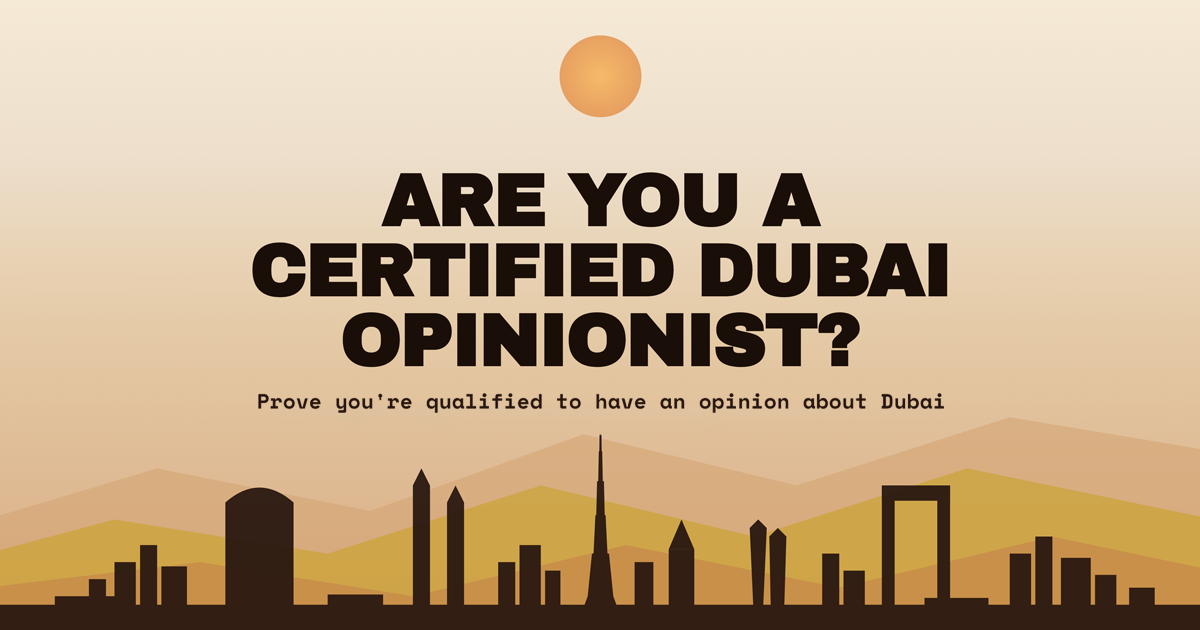
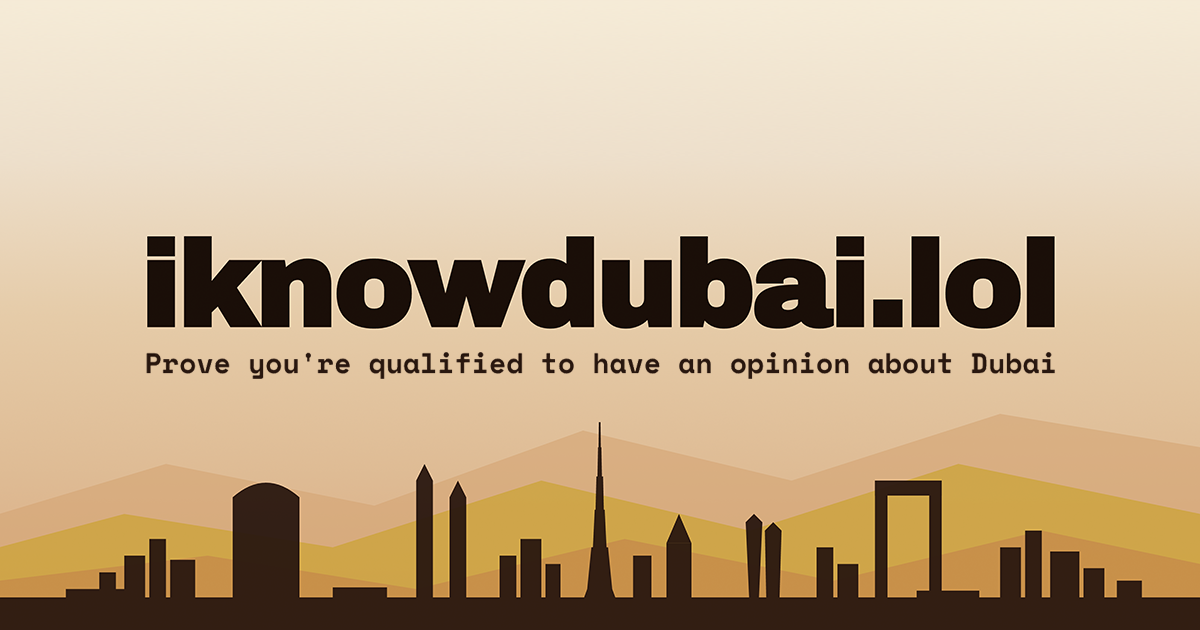
Mobile-first redesign: hero cleanup, quiz/results spacing optimization
- Remove sun decoration, add gold accent bar on hero
- Add semi-transparent background pill behind timer text
- Tighten hero vertical spacing on mobile
- Compact quiz options and question card for mobile
- Optimize results certificate layout to fit iPhone viewport
- All 3 buttons visible without scrolling on iPhone 16 Pro
- Restore balanced spacing (~70% of original margins)

diff --git a/app/page.jsx b/app/page.jsx
@@ -264,6 +264,12 @@ export default function DubaiQuiz() {
             )`,
           }}
         >
+          {/* Gold accent bar */}
+          <div
+            className="absolute top-0 left-0 w-full"
+            style={{ height: '6px', backgroundColor: '#D4AF37' }}
+          />
+
           {/* Logo */}
           <div className="absolute top-6 left-0 w-full flex justify-center" style={{ zIndex: 20 }}>
             <Logo />
@@ -357,25 +363,10 @@ export default function DubaiQuiz() {
             </g>
           </svg>
 
-          {/* Geometric Sun - high up, centered */}
-          <div
-            className="absolute"
-            style={{
-              top: '15%',
-              left: '50%',
-              transform: 'translateX(-50%)',
-              width: 'clamp(100px, 15vw, 160px)',
-              height: 'clamp(100px, 15vw, 160px)',
-              borderRadius: '50%',
-              background: 'radial-gradient(circle, #F7A834 0%, #E88B2E 50%, #D4752A 100%)',
-              opacity: 0.7,
-            }}
-          />
-
           {/* Main Content */}
           <div className="relative z-10 flex flex-col items-center">
             <h1
-              className="font-archivo text-center mb-6"
+              className="font-archivo text-center mb-3 sm:mb-6"
               style={{
                 color: '#1A0F08',
                 fontSize: 'clamp(2rem, 8vw, 5.5rem)',
@@ -391,7 +382,7 @@ export default function DubaiQuiz() {
             </h1>
 
             <p
-              className="font-space text-center mb-10"
+              className="font-space text-center mb-5 sm:mb-10"
               style={{
                 color: '#2A1810',
                 fontSize: 'clamp(1rem, 2.8vw, 1.4rem)',
@@ -432,6 +423,9 @@ export default function DubaiQuiz() {
                 fontSize: '13px',
                 fontWeight: 700,
                 letterSpacing: '0.06em',
+                background: 'rgba(245, 235, 215, 0.8)',
+                padding: '4px 12px',
+                borderRadius: '2px',
               }}
             >
               ⏱ 3 MIN · HONESTY REQUIRED
@@ -444,7 +438,7 @@ export default function DubaiQuiz() {
       {/* QUIZ SECTION */}
       {currentSection === 'quiz' && (
         <div
-          className="min-h-screen flex flex-col items-center justify-start sm:justify-center px-6 pt-[60px] sm:pt-12 pb-6 sm:pb-12 relative"
+          className="min-h-screen flex flex-col items-center justify-start sm:justify-center px-6 pt-[85px] sm:pt-12 pb-6 sm:pb-12 relative"
           style={{
             background: `linear-gradient(180deg,
               #F5EBD7 0%,
@@ -466,7 +460,7 @@ export default function DubaiQuiz() {
 
           <div className="max-w-xl w-full">
             {/* Progress dots */}
-            <div className="flex justify-center gap-3 mb-8">
+            <div className="flex justify-center gap-3 mb-4 sm:mb-8">
               {questions.map((_, index) => (
                 <div
                   key={index}
@@ -489,11 +483,11 @@ export default function DubaiQuiz() {
               style={{
                 backgroundColor: '#F5EBD7',
                 border: '4px solid #2A1810',
-                padding: '32px 28px',
+                padding: '20px 18px',
               }}
             >
               <p
-                className="font-space mb-4"
+                className="font-space mb-2"
                 style={{
                   color: '#2A1810',
                   fontSize: '12px',
@@ -505,7 +499,7 @@ export default function DubaiQuiz() {
               </p>
 
               <h3
-                className="font-archivo mb-8"
+                className="font-archivo mb-4"
                 style={{
                   color: '#1A0F08',
                   fontSize: 'clamp(1.2rem, 4vw, 1.6rem)',
@@ -516,7 +510,7 @@ export default function DubaiQuiz() {
                 {currentQ.question}
               </h3>
 
-              <div className="flex flex-col gap-3">
+              <div className="flex flex-col gap-2">
                 {currentQ.options.map((option, optIndex) => {
                   const isSelected = answers[currentQ.id]?.optionIndex === optIndex;
                   const isHovered = hoveredOption === `${currentQ.id}-${optIndex}`;
@@ -531,8 +525,8 @@ export default function DubaiQuiz() {
                       style={{
                         backgroundColor: isSelected ? '#7CB3BD' : isHovered ? '#D9C4A8' : 'transparent',
                         color: '#1A0F08',
-                        padding: '12px 16px',
-                        fontSize: '14px',
+                        padding: '10px 14px',
+                        fontSize: '13px',
                         fontWeight: 700,
                         border: '3px solid #2A1810',
                         borderRadius: 0,
@@ -550,7 +544,7 @@ export default function DubaiQuiz() {
             </div>
 
             {/* Navigation */}
-            <div className="flex justify-between mt-6">
+            <div className="flex justify-between mt-4">
               {/* Back button - only show from question 2 onwards */}
               {currentQuestion > 0 ? (
                 <button
@@ -640,7 +634,7 @@ export default function DubaiQuiz() {
       {/* RESULTS SECTION */}
       {currentSection === 'results' && (
         <div
-          className="min-h-screen flex flex-col items-center justify-center px-6 pt-14 pb-6"
+          className="min-h-screen flex flex-col items-center justify-start sm:justify-center px-6 pt-[50px] sm:pt-14 pb-3 sm:pb-6"
           style={{
             background: `linear-gradient(180deg,
               #F5EBD7 0%,
@@ -660,14 +654,14 @@ export default function DubaiQuiz() {
             <Logo />
           </div>
 
-          <div className="max-w-xl w-full">
+          <div className="max-w-xl w-full" style={{ marginTop: '24px' }}>
             {/* Certificate */}
             <div
               ref={certificateRef}
               style={{
                 backgroundColor: '#F5EBD7',
-                border: '6px solid #2A1810',
-                padding: '28px 24px',
+                border: '4px solid #2A1810',
+                padding: '24px 20px',
                 textAlign: 'center',
                 maxWidth: '1000px',
                 width: '100%',
@@ -684,20 +678,11 @@ export default function DubaiQuiz() {
                   fontSize: '12px',
                   fontWeight: 700,
                   letterSpacing: '0.2em',
-                  marginBottom: '8px',
+                  marginBottom: '16px',
                 }}
               >
                 CERTIFICATE
               </p>
-
-              <div
-                style={{
-                  width: '140px',
-                  height: '2px',
-                  backgroundColor: '#D4AF37',
-                  marginBottom: '16px',
-                }}
-              />
 
               <h2
                 className="font-archivo"
@@ -730,7 +715,7 @@ export default function DubaiQuiz() {
                 className="font-archivo"
                 style={{
                   color: '#1A0F08',
-                  fontSize: 'clamp(3rem, 10vw, 5rem)',
+                  fontSize: 'clamp(2.5rem, 8vw, 5rem)',
                   lineHeight: 1,
                   marginTop: '-10px',
                   marginBottom: '20px',
@@ -753,7 +738,7 @@ export default function DubaiQuiz() {
                 </p>
               )}
 
-              <p style={{ fontSize: '48px', marginTop: '-10px', marginBottom: '16px' }}>
+              <p style={{ fontSize: '40px', marginTop: '-8px', marginBottom: '12px' }}>
                 {result.emoji}
               </p>
 
@@ -774,11 +759,11 @@ export default function DubaiQuiz() {
                 className="font-archivo"
                 style={{
                   color: '#1A0F08',
-                  fontSize: 'clamp(1.8rem, 6vw, 3rem)',
+                  fontSize: 'clamp(1.5rem, 5vw, 3rem)',
                   textTransform: 'uppercase',
                   lineHeight: 0.95,
                   marginTop: '-8px',
-                  marginBottom: '16px',
+                  marginBottom: '12px',
                 }}
               >
                 {result.title}
@@ -788,7 +773,7 @@ export default function DubaiQuiz() {
                 className="font-space"
                 style={{
                   color: '#2A1810',
-                  fontSize: '14px',
+                  fontSize: '13px',
                   fontWeight: 700,
                   marginBottom: '20px',
                 }}
@@ -801,7 +786,7 @@ export default function DubaiQuiz() {
                   width: '100%',
                   height: '2px',
                   backgroundColor: '#2A1810',
-                  margin: '0 auto 16px',
+                  margin: '0 auto 12px',
                 }}
               />
 
@@ -819,7 +804,7 @@ export default function DubaiQuiz() {
             </div>
 
             {/* Buttons */}
-            <div className="flex flex-col gap-3 mt-4">
+            <div className="flex flex-col gap-2 mt-3">
               <button
                 onMouseEnter={() => setHoveredButton('download')}
                 onMouseLeave={() => setHoveredButton(null)}
@@ -829,12 +814,12 @@ export default function DubaiQuiz() {
                 style={{
                   backgroundColor: '#7CB3BD',
                   color: '#1A0F08',
-                  padding: '14px 40px',
-                  fontSize: '14px',
+                  padding: '12px 32px',
+                  fontSize: '13px',
                   fontWeight: 700,
                   letterSpacing: '0.1em',
                   textTransform: 'uppercase',
-                  border: '4px solid #2A1810',
+                  border: '3px solid #2A1810',
                   borderRadius: 0,
                   cursor: isDownloading ? 'wait' : 'pointer',
                   transform: hoveredButton === 'download' && !isDownloading ? 'translate(-4px, -4px)' : 'translate(0, 0)',
@@ -853,12 +838,12 @@ export default function DubaiQuiz() {
                 style={{
                   backgroundColor: '#1A0F08',
                   color: '#F5EBD7',
-                  padding: '14px 40px',
-                  fontSize: '14px',
+                  padding: '12px 32px',
+                  fontSize: '13px',
                   fontWeight: 700,
                   letterSpacing: '0.1em',
                   textTransform: 'uppercase',
-                  border: '4px solid #2A1810',
+                  border: '3px solid #2A1810',
                   borderRadius: 0,
                   cursor: 'pointer',
                   transform: hoveredButton === 'share' ? 'translate(-4px, -4px)' : 'translate(0, 0)',
@@ -877,12 +862,12 @@ export default function DubaiQuiz() {
                 style={{
                   backgroundColor: 'transparent',
                   color: '#1A0F08',
-                  padding: '14px 40px',
-                  fontSize: '14px',
+                  padding: '12px 32px',
+                  fontSize: '13px',
                   fontWeight: 700,
                   letterSpacing: '0.1em',
                   textTransform: 'uppercase',
-                  border: '4px solid #2A1810',
+                  border: '3px solid #2A1810',
                   borderRadius: 0,
                   cursor: 'pointer',
                   transform: hoveredButton === 'retake' ? 'translate(-4px, -4px)' : 'translate(0, 0)',
